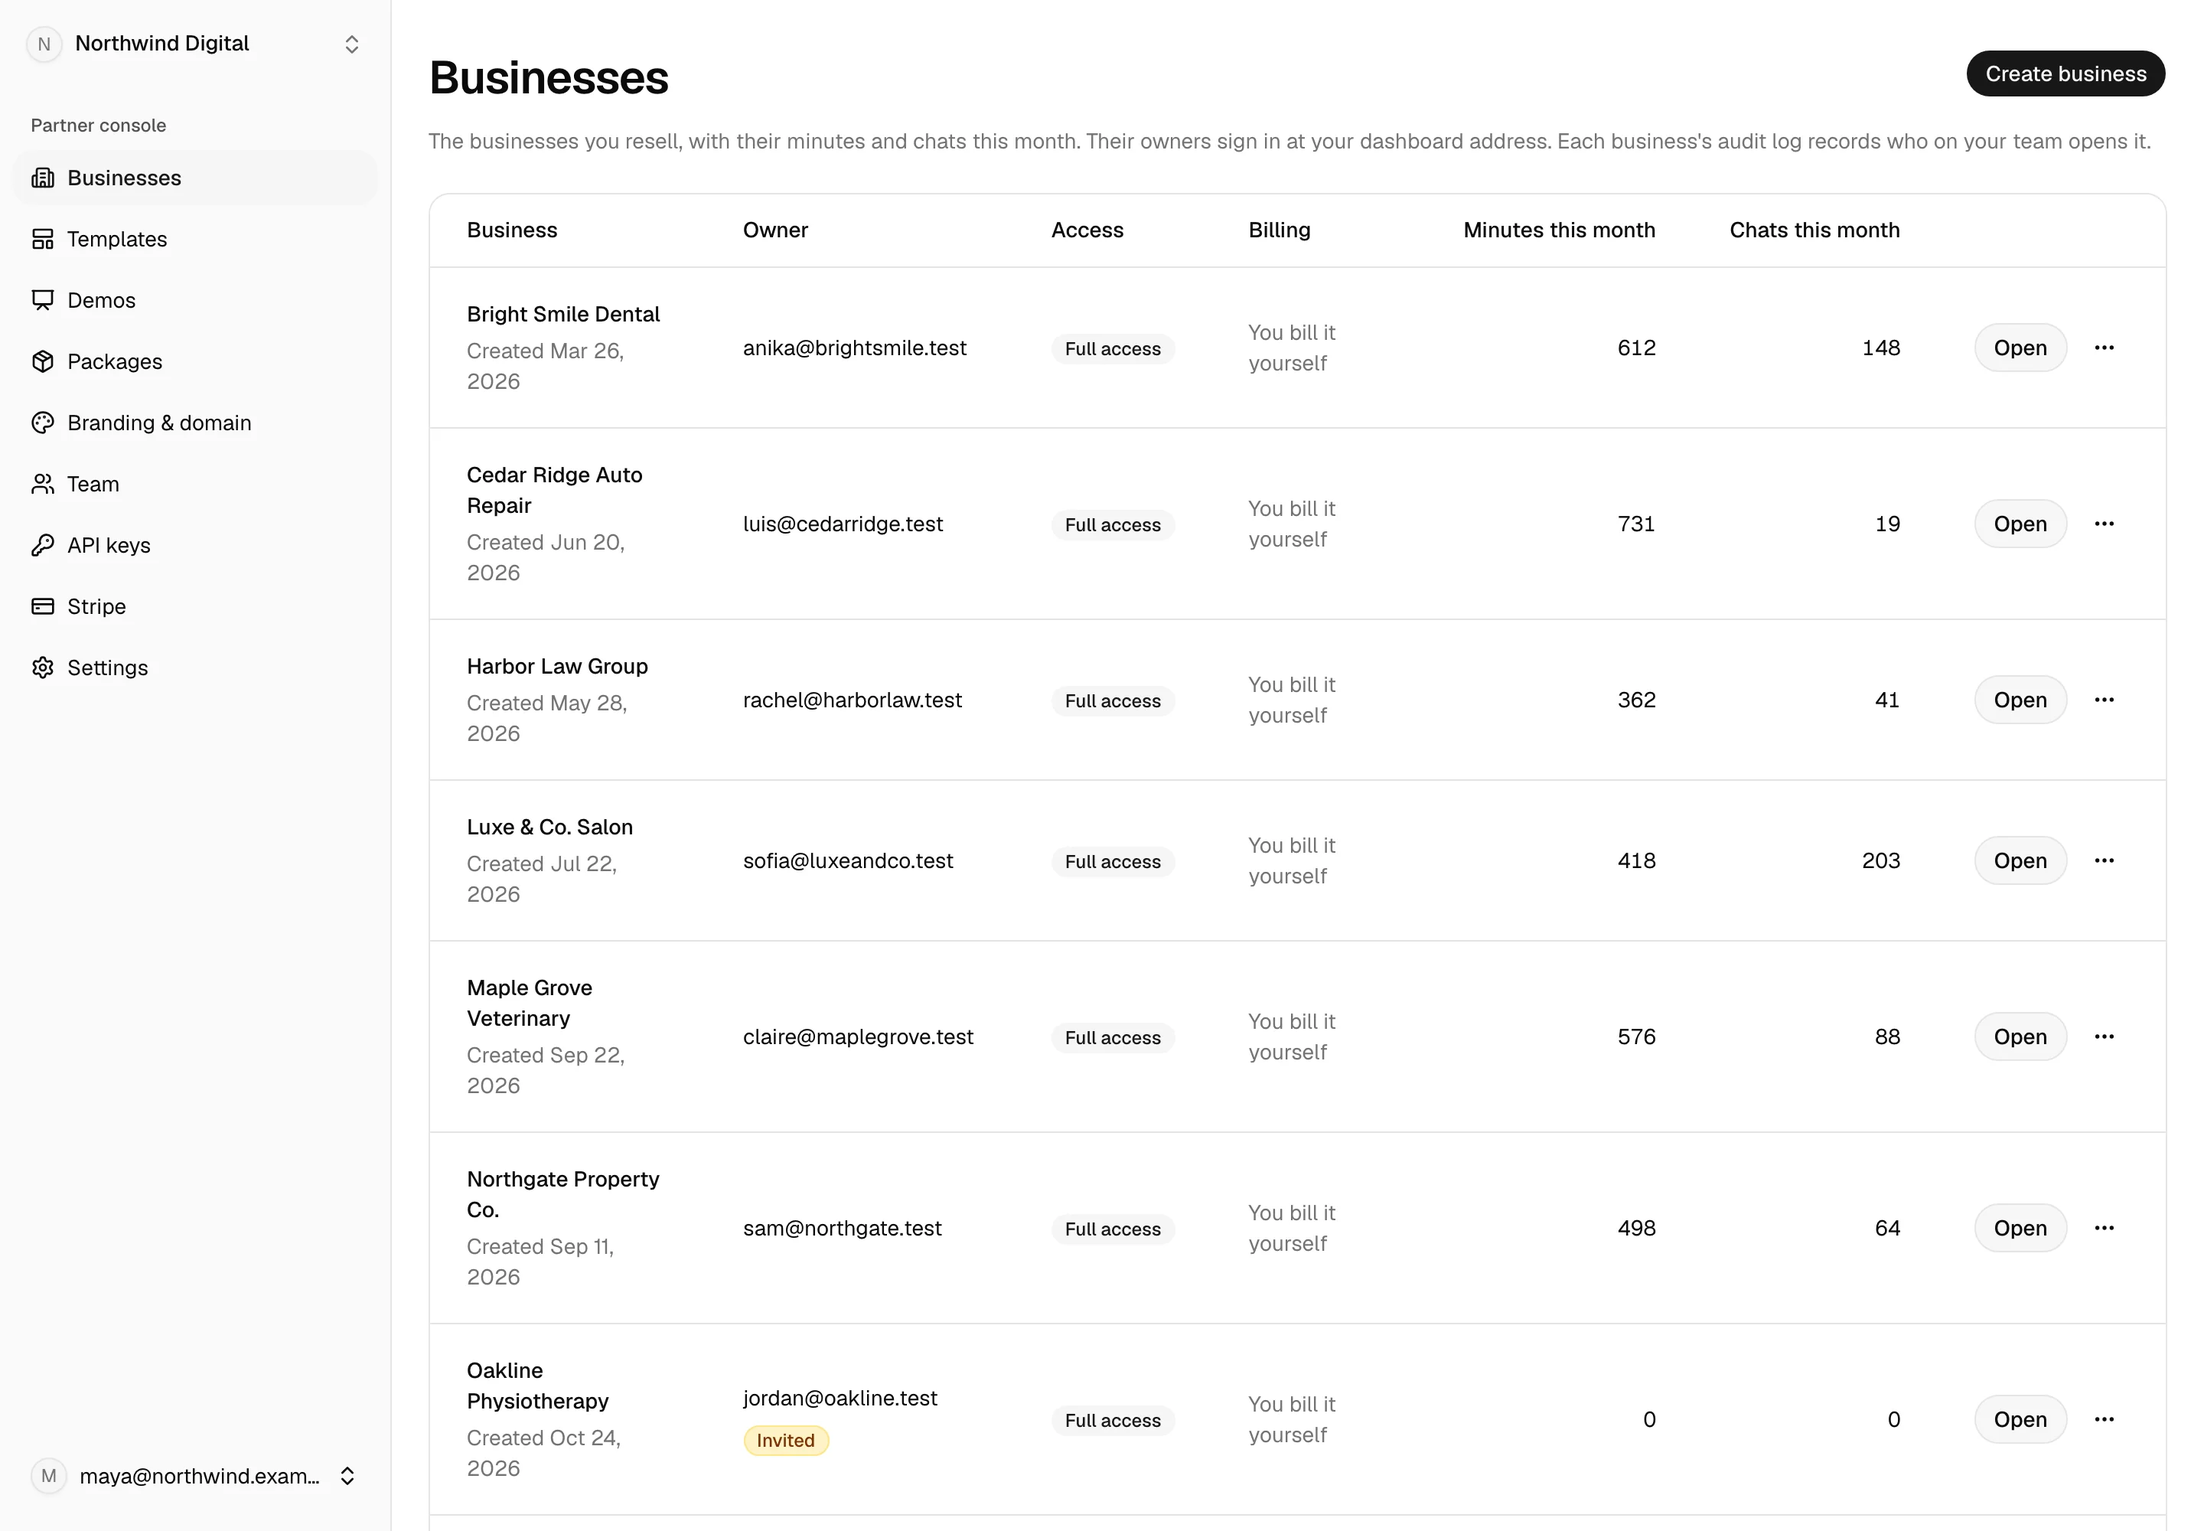
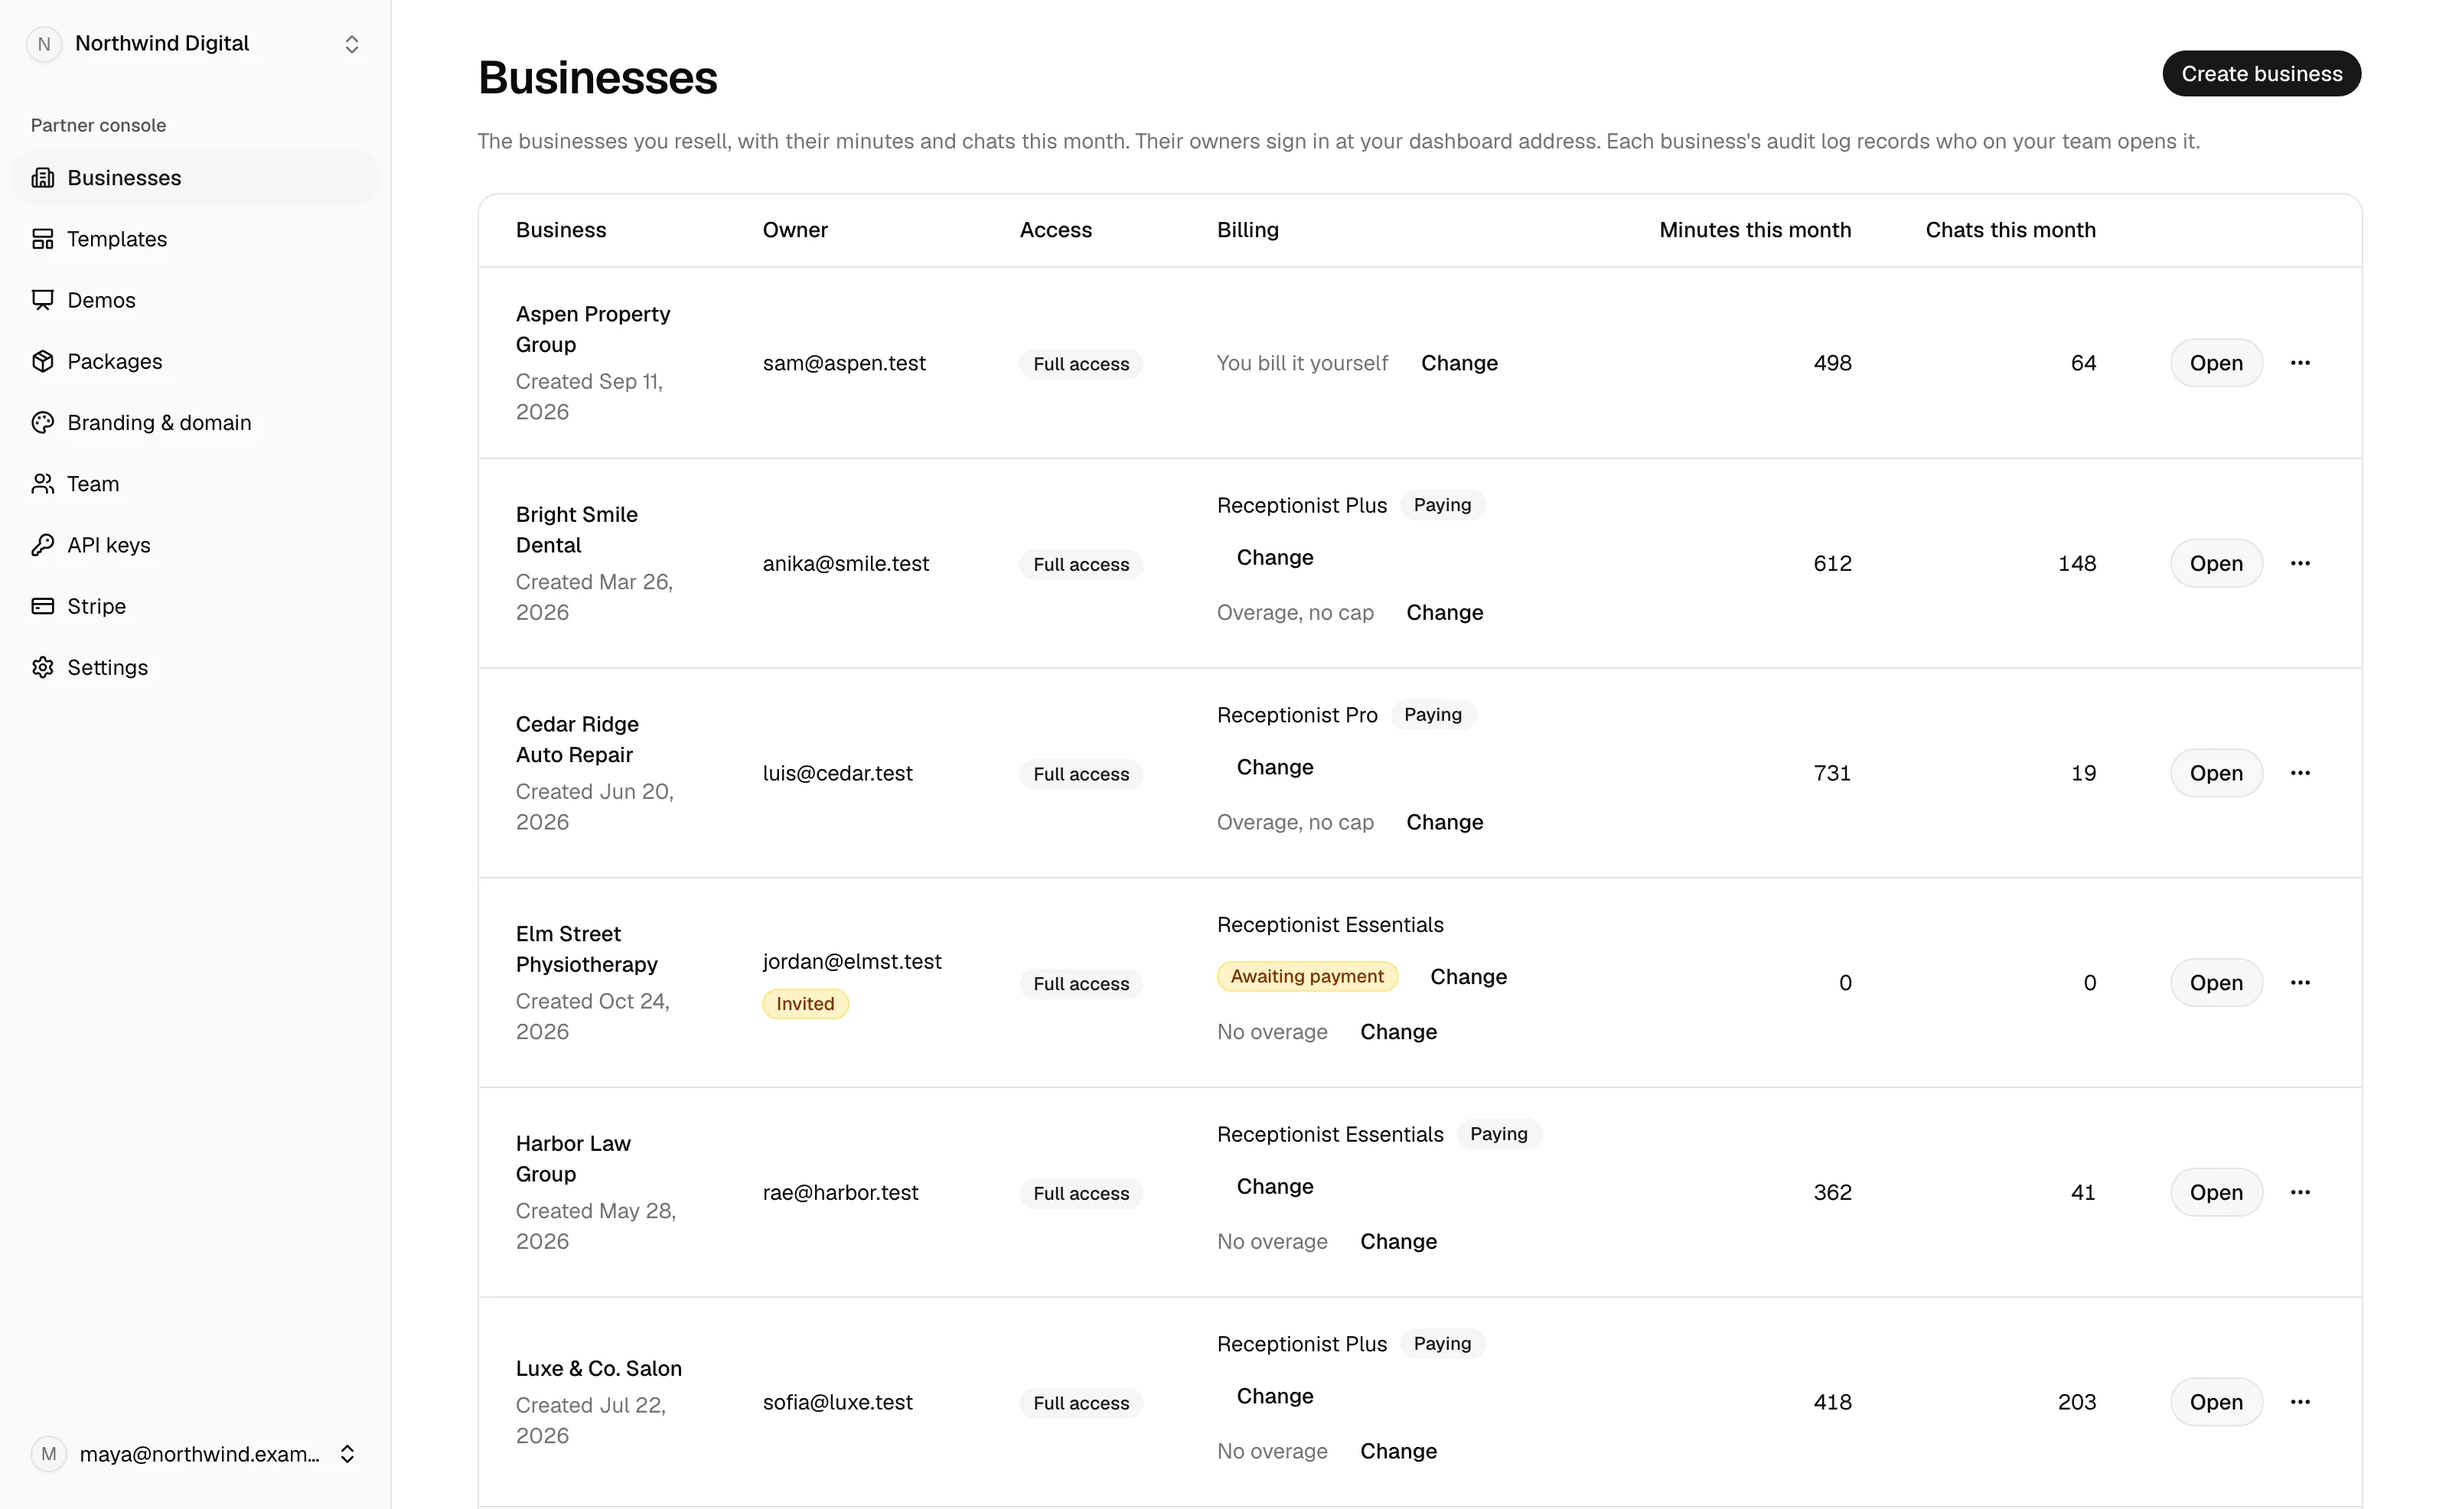
Lead the white-label page with the partner console
The hero's screenshot is now the partner console, which an agency buys,
with packages, payment states and an invited owner. The partner-branded
client dashboard takes the full-width frame after "How it works".

A new section under the console and pool cards covers self-hosting:
LobbyStack is MIT licensed, every partner feature works on your own
servers, and calls run on your own Twilio and OpenAI accounts. It
links to the self-hosted solution page, in all four languages and in
the Markdown twin.

diff --git a/apps/admin/src/marketing/lib/white-label-copy.ts b/apps/admin/src/marketing/lib/white-label-copy.ts
@@ -29,6 +29,7 @@ export type WhiteLabelCopy = {
     card: WhiteLabelCard & { cta: string }
   }
   console: { title: string; body: string }
+  selfHost: { eyebrow: string; title: string; body: string; cta: string }
   pool: { title: string; body: string }
   heroArt: { brand: string; clients: string; prices: string }
   shots: {
@@ -113,6 +114,13 @@ const en: WhiteLabelCopy = {
     title: "Every client in one console",
     body:
       "Create a business, start it from one of your templates, and open any client's dashboard when they need help. That business's audit log records each visit.",
+  },
+  selfHost: {
+    eyebrow: "Self-hosted",
+    title: "Run the whole program on your own servers",
+    body:
+      "LobbyStack is open source under the MIT license, and every partner feature works when you host it yourself: your brand and domains, the console, packages on your Stripe and the shared pool. Your calls run on your own Twilio and OpenAI accounts, and their records stay in your database. LobbyStack charges no license fee.",
+    cta: "See how self-hosting works",
   },
   pool: {
     title: "One pool for all your clients",
@@ -239,6 +247,13 @@ const fr: WhiteLabelCopy = {
     body:
       "Créez une entreprise, partez de l'un de vos modèles et ouvrez le tableau de bord d'un client quand il a besoin d'aide. Le journal d'audit de l'entreprise garde une trace de chaque visite.",
   },
+  selfHost: {
+    eyebrow: "Auto-hébergé",
+    title: "Faites tourner tout le programme sur vos serveurs",
+    body:
+      "LobbyStack est open source sous licence MIT, et chaque fonction partenaire marche quand vous l'hébergez vous-même : votre marque et vos domaines, la console, les formules sur votre Stripe et la réserve commune. Vos appels passent par vos propres comptes Twilio et OpenAI, et leurs données restent dans votre base. LobbyStack ne facture aucune licence.",
+    cta: "Voir comment marche l'auto-hébergement",
+  },
   pool: {
     title: "Une seule réserve pour tous vos clients",
     body:
@@ -364,6 +379,13 @@ const es: WhiteLabelCopy = {
     body:
       "Cree un negocio, empiece desde una de sus plantillas y abra el panel de un cliente cuando necesite ayuda. El historial de auditoría del negocio registra cada visita.",
   },
+  selfHost: {
+    eyebrow: "Autoalojado",
+    title: "Ejecute todo el programa en sus propios servidores",
+    body:
+      "LobbyStack es de código abierto con licencia MIT, y cada función de socio funciona cuando lo aloja usted mismo: su marca y sus dominios, la consola, los paquetes en su Stripe y la bolsa compartida. Sus llamadas usan sus propias cuentas de Twilio y OpenAI, y sus registros se quedan en su base de datos. LobbyStack no cobra ninguna licencia.",
+    cta: "Ver cómo funciona el autoalojamiento",
+  },
   pool: {
     title: "Una sola bolsa para todos sus clientes",
     body:
@@ -488,6 +510,13 @@ const sr: WhiteLabelCopy = {
     title: "Svi klijenti u jednoj konzoli",
     body:
       "Napravite firmu, pokrenite je iz nekog svog šablona i otvorite kontrolnu tablu klijenta kad mu zatreba pomoć. Dnevnik revizije te firme beleži svaku posetu.",
+  },
+  selfHost: {
+    eyebrow: "Samostalno hostovanje",
+    title: "Pokrenite ceo program na svojim serverima",
+    body:
+      "LobbyStack je otvorenog koda pod MIT licencom, i svaka partnerska funkcija radi kada ga sami hostujete: vaš brend i domeni, konzola, ponude preko vašeg Stripe-a i zajednički fond. Pozivi idu preko vaših Twilio i OpenAI naloga, a podaci o njima ostaju u vašoj bazi. LobbyStack ne naplaćuje licencu.",
+    cta: "Pogledajte kako radi samostalno hostovanje",
   },
   pool: {
     title: "Jedan fond za sve klijente",

diff --git a/apps/admin/src/marketing/components/white-label/WhiteLabelSections.tsx b/apps/admin/src/marketing/components/white-label/WhiteLabelSections.tsx
@@ -8,9 +8,10 @@ import {
   OverageArt,
   PackagesArt,
   PlaneGrid,
+  SelfHostArt,
   SetupFeeArt,
 } from "@/marketing/components/white-label/WhiteLabelArt"
-import type { Locale } from "@/marketing/i18n"
+import { localizeHref, type Locale } from "@/marketing/i18n"
 import { appPartnerSignupUrl } from "@/marketing/lib/app-links"
 import { PillLink } from "@/marketing/components/white-label/PillLink"
 import { WhiteLabelTierCards, type WhiteLabelTierCard } from "@/marketing/components/white-label/WhiteLabelTierCards"
@@ -27,7 +28,7 @@ const highlightedTier: PartnerTierSlug = "growth"
 
 /** The product shots in public/screenshots, at their pixel sizes. */
 const dashboardShot = { src: "/screenshots/partner-business-dashboard.webp", width: 2880, height: 1880 }
-const consoleShot = { src: "/screenshots/partner-console.webp", width: 2880, height: 2000 }
+const consoleShot = { src: "/screenshots/partner-console.webp", width: 3200, height: 1972 }
 const signInShot = { src: "/screenshots/partner-signin.webp", width: 1600, height: 1000 }
 const brandingShot = { src: "/screenshots/partner-branding.webp", width: 2880, height: 1360 }
 
@@ -99,7 +100,7 @@ export function WhiteLabelHero({ locale }: SectionProps) {
       </div>
       <div className={cn(container, "mt-2 md:mt-12 lg:mt-6")}>
         <AppFrame>
-          <Shot shot={dashboardShot} alt={copy.shots.dashboardAlt} priority />
+          <Shot shot={consoleShot} alt={copy.shots.consoleAlt} priority />
         </AppFrame>
       </div>
     </section>
@@ -165,18 +166,40 @@ export function WhiteLabelHowItWorks({ locale }: SectionProps) {
             </article>
           ))}
         </div>
+
+        <div className="mt-6 grid overflow-hidden rounded-2xl border border-border/60 md:mt-12 md:grid-cols-[1.35fr_1fr]">
+          <div className="relative min-h-[18rem] bg-beige-strong/60 md:min-h-[24rem]">
+            <SelfHostArt />
+          </div>
+          <div className="flex flex-col justify-center bg-beige px-6 py-10 md:px-8">
+            <p className="eyebrow">{copy.selfHost.eyebrow}</p>
+            <h3 className="mt-2 font-heading text-[1.625rem] leading-[1.2] font-medium tracking-[-0.03em] md:text-[2rem]">
+              {copy.selfHost.title}
+            </h3>
+            <p className="mt-3 text-base leading-6 text-muted-foreground">{copy.selfHost.body}</p>
+            <div className="mt-10">
+              <PillLink
+                href={localizeHref(locale, "/solutions/self-hosted-ai-receptionist/")}
+                variant="primary"
+                section="white_label_self_host"
+              >
+                {copy.selfHost.cta}
+              </PillLink>
+            </div>
+          </div>
+        </div>
       </div>
     </section>
   )
 }
 
-export function WhiteLabelConsole({ locale }: SectionProps) {
+export function WhiteLabelDashboard({ locale }: SectionProps) {
   const t = getWhiteLabelCopy(locale).shots
   return (
     <section className="pt-20 md:pt-30">
       <div className={container}>
         <AppFrame>
-          <Shot shot={consoleShot} alt={t.consoleAlt} />
+          <Shot shot={dashboardShot} alt={t.dashboardAlt} />
         </AppFrame>
       </div>
     </section>

diff --git a/apps/admin/src/marketing/components/white-label/WhiteLabelArt.tsx b/apps/admin/src/marketing/components/white-label/WhiteLabelArt.tsx
@@ -1,5 +1,5 @@
 import { intlLocale } from "@lobbystack/shared"
-import { Bell, Building2, CreditCard, Palette, Tag } from "lucide-react"
+import { Bell, Building2, CreditCard, Palette, Server, Tag } from "lucide-react"
 import type { CSSProperties, ReactNode } from "react"
 
 import type { Locale } from "@/marketing/i18n"
@@ -219,6 +219,38 @@ export function OverageArt({ locale, copy }: { locale: Locale; copy: WhiteLabelC
           </span>
           {copy.alertSent}
         </span>
+      </div>
+    </div>
+  )
+}
+
+/**
+ * Self-hosting: a field of blank tiles on the plane, with one raised tile
+ * carrying a server, the way one machine in a rack is yours.
+ */
+export function SelfHostArt({ className }: { className?: string }) {
+  // An odd grid, so the raised tile sits in the middle cell at every width.
+  const size = 5
+  const middle = Math.floor((size * size) / 2)
+  return (
+    <div aria-hidden="true" className={cn("pointer-events-none absolute inset-0 overflow-hidden [perspective:1800px]", className)}>
+      <div className="absolute inset-0 flex items-center justify-center scale-[0.72] md:scale-100">
+        <div className="grid w-[82rem] shrink-0 grid-cols-5 gap-7" style={plane}>
+          {Array.from({ length: size * size }, (_, index) =>
+            index === middle ? (
+              <div key={index} className="flex h-44 items-center justify-center">
+                <Tile className="rounded-[2.25rem] p-3.5" innerClassName="flex size-32 items-center justify-center rounded-[1.6rem]">
+                  <Server className="size-12 text-foreground/85" strokeWidth={1.5} />
+                </Tile>
+              </div>
+            ) : (
+              <span
+                key={index}
+                className="block h-44 rounded-[2rem] border border-white/70 bg-[linear-gradient(180deg,oklch(0.985_0.002_70),oklch(0.955_0.004_70))] shadow-[inset_0_1px_0_white,0_10px_24px_-12px_oklch(0.3_0.02_60/16%)]"
+              />
+            )
+          )}
+        </div>
       </div>
     </div>
   )

diff --git a/apps/admin/src/marketing/pages/WhiteLabelPage.tsx b/apps/admin/src/marketing/pages/WhiteLabelPage.tsx
@@ -2,7 +2,7 @@ import { Footer } from "@/marketing/components/Footer"
 import { Navbar } from "@/marketing/components/Navbar"
 import {
   WhiteLabelClosing,
-  WhiteLabelConsole,
+  WhiteLabelDashboard,
   WhiteLabelEarn,
   WhiteLabelFaq,
   WhiteLabelHero,
@@ -58,7 +58,7 @@ export function WhiteLabelPage({ locale }: { locale: Locale }) {
       <main id="main-content">
         <WhiteLabelHero locale={locale} />
         <WhiteLabelHowItWorks locale={locale} />
-        <WhiteLabelConsole locale={locale} />
+        <WhiteLabelDashboard locale={locale} />
         <WhiteLabelEarn locale={locale} />
         <WhiteLabelTiers locale={locale} />
         <WhiteLabelFaq locale={locale} />

diff --git a/apps/admin/src/marketing/lib/white-label-markdown.ts b/apps/admin/src/marketing/lib/white-label-markdown.ts
@@ -57,6 +57,12 @@ ${copy.hero.subhead}
 - **${copy.console.title}.** ${copy.console.body}
 - **${copy.pool.title}.** ${copy.pool.body}
 
+## ${copy.selfHost.title}
+
+${copy.selfHost.body}
+
+- ${copy.selfHost.cta}: ${absoluteUrl(localizePath(locale, "/solutions/self-hosted-ai-receptionist/"))}
+
 ## ${copy.earn.titleLines.join(" ")}
 
 ${cards}
